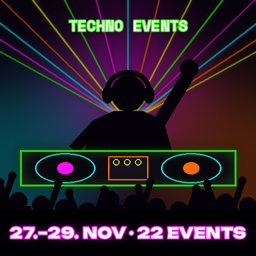
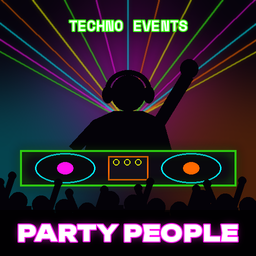
Link-Vorschau: PARTY PEOPLE statt Datum
Claude-Session: https://claude.ai/code/session_01AgiqKdqToQMbSWaNTEG4jc

Changed region(s): [[0.0312, 0.8438, 0.9688, 0.9688]]

diff --git a/tools/vorschau.py b/tools/vorschau.py
@@ -118,8 +118,8 @@ def main():
     neon(bild, (S // 2, 50), "TECHNO EVENTS", f_kopf, ACID, blur=8, staerke=1)
     leiste = Image.new("RGBA", (S, S), (0, 0, 0, 0)); ImageDraw.Draw(leiste).rectangle((0, S - 92, S, S), fill=(0, 0, 0, 200))
     bild.alpha_composite(leiste)
-    text = f"{zeile1} · {n} EVENTS"
-    f_unten = passend(ImageDraw.Draw(bild), text, FONT_TITEL, 44, S - 40)
+    text = "PARTY PEOPLE"
+    f_unten = passend(ImageDraw.Draw(bild), text, FONT_TITEL, 58, S - 60)
     neon(bild, (S // 2, S - 46), text, f_unten, PINK, blur=10)
 
     bild = bild.convert("RGB").resize((AUS, AUS), Image.LANCZOS)
